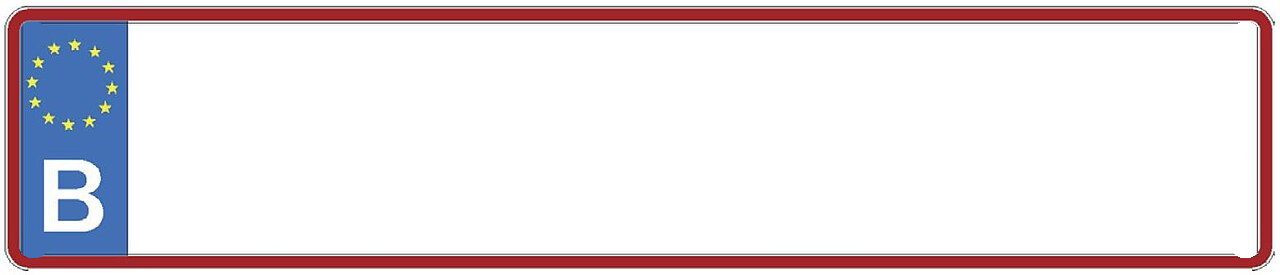
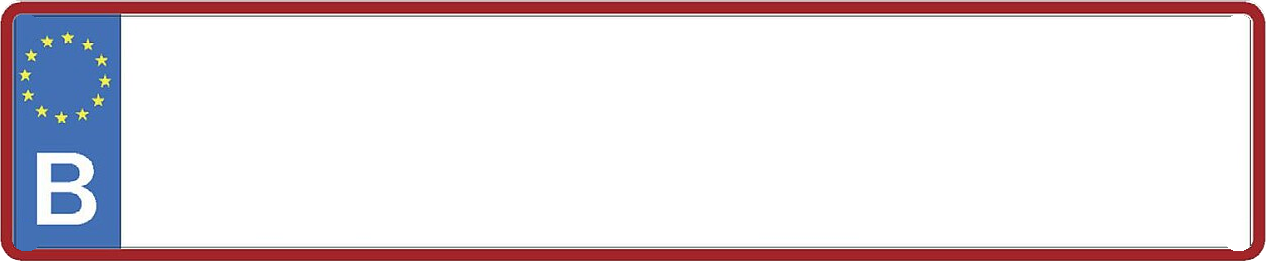
Belgium: transparent plate corners, spaced lettering, category stored with plate type (fixes vanity shown as Standard), green plates, plate previews in category picker, 1951 hidden, mopeds/motorcycles use two-line

Changed region(s): [[0.0, 0.0, 1.0, 1.0]]

diff --git a/app/lib/plateLayout.ts b/app/lib/plateLayout.ts
@@ -5,6 +5,7 @@
  * Pure data + math only (no React, no fs) — safe to import anywhere.
  */
 import { AL_CAP_HEIGHT, AL_WIDTHS } from "./albaniaFontMetrics";
+import { BELGIUM_CATEGORIES, parseBelgiumPlateType } from "./belgiumData";
 import { AT_CAP_HEIGHT, AT_WIDTHS } from "./austriaFontMetrics";
 import { AT47_CAP_HEIGHT, AT47_WIDTHS } from "./austria1947FontMetrics";
 
@@ -73,6 +74,10 @@ export type PlateArt = {
   seal?: string;
   /** Fixed-shape seal image (width ÷ height); its height is rowH × sealH. */
   sealAspect?: number;
+  /** Extra space after every character, in em (default 0). */
+  tracking?: number;
+  /** Share of the row height the capitals fill (default 0.72). */
+  fill?: number;
   /** Austria: draw the coat of arms of the plate's state (by district) instead of a fixed seal. */
   stateSeals?: boolean;
   /** Height of a state coat of arms as a fraction of its row. */
@@ -178,10 +183,10 @@ export const PLATE_ART: Record<string, PlateArt> = {
     split: "whole",
   },
   // ── Belgium: red plates. Euroband at the left; single row has the emblem / dash / DIV stamp as one seal between the first character and the rest ──
-  "belgium:single-dash": { src: "/plates/belgium/regular-single.png", w: 1280, h: 275, rows: [{ y0: 38, y1: 236, x0: 150, x1: 1240, slots: 2, seal: true, gap: 0.12 }], split: "be-seal", seal: "/plates/belgium/seal.png", sealAspect: 60 / 184, sealH: 0.93, textColor: "#a3252b" },
-  "belgium:single-no-dash": { src: "/plates/belgium/regular-single.png", w: 1280, h: 275, rows: [{ y0: 38, y1: 236, x0: 150, x1: 1240, slots: 1 }], split: "whole", textColor: "#a3252b" },
-  "belgium:two-line": { src: "/plates/belgium/regular-two.png", w: 1000, h: 600, rows: [{ y0: 36, y1: 300, x0: 190, x1: 830, slots: 1 }, { y0: 304, y1: 568, x0: 190, x1: 830, slots: 1, align: "right" }], split: "be-two", textColor: "#a3252b" },
-  "belgium:two-line-us": { src: "/plates/belgium/regular-two.png", w: 1000, h: 600, rows: [{ y0: 36, y1: 300, x0: 190, x1: 830, slots: 1 }, { y0: 304, y1: 568, x0: 190, x1: 830, slots: 1, align: "right" }], split: "be-two", textColor: "#a3252b" },
+  "belgium:single-dash": { src: "/plates/belgium/regular-single.png", w: 1266, h: 261, rows: [{ y0: 31, y1: 229, x0: 143, x1: 1233, slots: 2, seal: true, gap: 0.12 }], split: "be-seal", seal: "/plates/belgium/seal.png", sealAspect: 60 / 184, sealH: 0.93, textColor: "#a3252b", tracking: 0.1, fill: 0.66 },
+  "belgium:single-no-dash": { src: "/plates/belgium/regular-single.png", w: 1266, h: 261, rows: [{ y0: 31, y1: 229, x0: 143, x1: 1233, slots: 1 }], split: "whole", textColor: "#a3252b", tracking: 0.1, fill: 0.66 },
+  "belgium:two-line": { src: "/plates/belgium/regular-two.png", w: 1000, h: 600, rows: [{ y0: 36, y1: 300, x0: 190, x1: 830, slots: 1 }, { y0: 304, y1: 568, x0: 190, x1: 830, slots: 1, align: "right" }], split: "be-two", textColor: "#a3252b", tracking: 0.07, fill: 0.64 },
+  "belgium:two-line-us": { src: "/plates/belgium/regular-two.png", w: 1000, h: 600, rows: [{ y0: 36, y1: 300, x0: 190, x1: 830, slots: 1 }, { y0: 304, y1: 568, x0: 190, x1: 830, slots: 1, align: "right" }], split: "be-two", textColor: "#a3252b", tracking: 0.07, fill: 0.64 },
   // ── Belgium: military plates (digits only) — flag strip at x218–278, lettering to its right ──
   "belgium:military-single": { src: "/plates/belgium/military-single.png", w: 1040, h: 241, rows: [{ y0: 30, y1: 210, x0: 300, x1: 950, slots: 1 }], split: "whole" },
   // ── Austria: backgrounds in public/plates/austria; one row per line of lettering ──
@@ -262,6 +267,15 @@ export function plateArtFor(country: string, plateType?: string | null): PlateAr
     // electric vehicles and green-lettered mopeds: same plate, green characters
     const green = /^at-electric/.test(plateType ?? "") || /moped-green$/.test(plateType ?? "");
     return art && green && !art.textColor ? { ...art, textColor: "#0b7a3b" } : art;
+  }
+  if (key === "belgium") {
+    const { category, format } = parseBelgiumPlateType(plateType);
+    const art = PLATE_ART[`belgium:${format}`] ?? null;
+    // dealer, testing and professional plates have green lettering
+    const green = category && BELGIUM_CATEGORIES.find((c) => c.id === category)?.color === "green";
+    return art && green
+      ? { ...art, src: art.src.replace(".png", "-green.png"), seal: art.seal?.replace("seal.png", "seal-green.png"), textColor: "#1d7a3c" }
+      : art;
   }
   return (plateType && PLATE_ART[`${key}:${plateType}`]) || PLATE_ART[key] || null;
 }
@@ -387,6 +401,7 @@ export type TextRun = {
   align: "left" | "center" | "right";
   fontSize: number;
   centerY: number;     // vertical centre of the capitals
+  tracking?: number;   // extra space after each character, em
 };
 
 /** Left edge of a run of the given width inside its slot. */
@@ -448,10 +463,10 @@ export function plateLayout(country: string, rawText: string, height: number, pl
       const sealD = !mode ? 0 : stateSrc ? sealH * sealAspect(stateSrc) : art.sealAspect ? sealH * art.sealAspect : rowH * SEAL_DIAMETER;
       const gap = mode ? rowH * (row.gap ?? SEAL_GAP) : 0;
       const gaps = mode === "between" ? 2 : mode === "left" || mode === "right" ? 1 : 0;   // gaps touching the seal
-      const ems = texts.map((t) => textWidthEm(t, font));
+      const ems = texts.map((t) => textWidthEm(t, font) + (art.tracking ?? 0) * [...t].length);
       return { row, texts, rowH, mode, sealD, sealH, gap, gaps, ems, avail: (row.x1 - row.x0) * s };
     });
-    const fit = (l: (typeof lines)[number]) => Math.min((l.rowH * 0.72) / capH, (l.avail - l.sealD - l.gaps * l.gap) / Math.max(l.ems.reduce((x, y) => x + y, 0), 0.5));
+    const fit = (l: (typeof lines)[number]) => Math.min((l.rowH * (art.fill ?? 0.72)) / capH, (l.avail - l.sealD - l.gaps * l.gap) / Math.max(l.ems.reduce((x, y) => x + y, 0), 0.5));
 
     // One letter height for the whole plate: capped by every row's height and by
     // every row's width (text + seal must fit between the bands).
@@ -472,7 +487,7 @@ export function plateLayout(country: string, rawText: string, height: number, pl
       }
       l.texts.forEach((text, i) => {
         // Belgian lettering has no slashed zero: use the plain O
-        runs.push({ text: key === "belgium" ? text.replace(/0/g, "O") : text, x0: x, x1: x + widths[i], align: "left", fontSize: fs, centerY });
+        runs.push({ text: key === "belgium" ? text.replace(/0/g, "O") : text, x0: x, x1: x + widths[i], align: "left", fontSize: fs, centerY, tracking: art.tracking });
         x += widths[i];
         if (l.mode === "right" && i === l.texts.length - 1) {                 // text then ●
           seals.push({ cx: x + l.gap + l.sealD / 2, cy: centerY, d: l.sealD, h: l.sealH || undefined, src: stateSrc ?? undefined });

diff --git a/app/lib/belgiumData.ts b/app/lib/belgiumData.ts
@@ -40,7 +40,7 @@ export const BELGIUM_CATEGORIES: {
   { id: "testing",       label: "Testing",                     color: "green", example: "Y-AAA",      hint: "Starts with Y-AAA or Y-QAA" },
   { id: "professional",  label: "Professional plates",         color: "green", example: "V-AA-123",   hint: "Starts with V-AA" },
   { id: "vanity",        label: "Vanity",                      color: "red",   example: "HELLO",      hint: "Custom text (since 2014)" },
-  { id: "year-1951",     label: "1951 Year system",            color: "red",   example: "AAA-111",    hint: "Select era pattern below" },
+  // (1951 year system hidden for now — re-add its entry here to bring it back)
   { id: "diplomatic",    label: "Diplomatic",                  color: "red",   example: "01 CD 123",  hint: "Freetype diplomatic format" },
   { id: "military",      label: "Military",                    color: "red",   example: "26287",      hint: "Belgian Defence — digits only, flag strip" },
 ];
@@ -121,9 +121,9 @@ const STANDARD_FORMATS = ["single-dash", "single-no-dash", "two-line", "two-line
 const FORMATS_1951     = ["single-no-euroband", "two-line-no-euroband", "single-euroband", "two-line-euroband"];
 
 export const BELGIUM_FORMATS_FOR: Record<BelgiumCategoryId, string[]> = {
-  regular: STANDARD_FORMATS, oldtimer: STANDARD_FORMATS, motorcycle: STANDARD_FORMATS,
+  regular: STANDARD_FORMATS, oldtimer: STANDARD_FORMATS, motorcycle: ["two-line"],
   taxi: STANDARD_FORMATS, trailer: STANDARD_FORMATS, dealer: STANDARD_FORMATS,
-  international: STANDARD_FORMATS, agricultural: STANDARD_FORMATS, moped: STANDARD_FORMATS,
+  international: STANDARD_FORMATS, agricultural: STANDARD_FORMATS, moped: ["two-line"],
   rental: STANDARD_FORMATS, testing: STANDARD_FORMATS, professional: STANDARD_FORMATS,
   vanity: STANDARD_FORMATS, "year-1951": FORMATS_1951, diplomatic: STANDARD_FORMATS,
   military: ["military-single"],
@@ -145,3 +145,17 @@ export const BE_COLOR_CLASSES: Record<BelgiumPlateColor, string> = {
   red:   "border-red-700/60 text-red-300 bg-red-950/30",
   green: "border-green-700/60 text-green-300 bg-green-950/30",
 };
+
+/**
+ * Stored Belgian plate types are "<category>__<format>" (e.g. "vanity__single-dash").
+ * Older spots store only the format ("single-dash"), or "<format>__<era>" for 1951 plates.
+ */
+export function parseBelgiumPlateType(t?: string | null): { category: BelgiumCategoryId | null; format: string } {
+  const raw = t ?? "";
+  const i = raw.indexOf("__");
+  if (i > 0) {
+    const cat = BELGIUM_CATEGORIES.find((c) => c.id === raw.slice(0, i) && c.id !== "year-1951");
+    if (cat) return { category: cat.id, format: raw.slice(i + 2) };
+  }
+  return { category: null, format: raw };
+}

diff --git a/app/upload/belgium/page.tsx b/app/upload/belgium/page.tsx
@@ -127,7 +127,7 @@ export default function BelgiumUploadPage() {
       if (!uploaded || !uploaded[0]?.ufsUrl) throw new Error("Image upload failed — please try again.");
       const imageUrl = uploaded[0].ufsUrl;
       setStatus("saving");
-      const composedType = category === "year-1951" ? `${format}__${era}` : format;
+      const composedType = category === "year-1951" ? `${format}__${era}` : `${category}__${format}`;
       const res = await fetch("/api/uploads", {
         method: "POST",
         headers: { "Content-Type": "application/json" },
@@ -173,7 +173,7 @@ export default function BelgiumUploadPage() {
     await doUpload();
   }
 
-  const composedType = category === "year-1951" ? `${format}__${era}` : format;
+  const composedType = category === "year-1951" ? `${format}__${era}` : `${category}__${format}`;
 
   return (
     <>
@@ -233,12 +233,15 @@ export default function BelgiumUploadPage() {
               <div className="grid grid-cols-2 sm:grid-cols-3 gap-2">
                 {BELGIUM_CATEGORIES.map((c) => (
                   <button key={c.id} type="button" onClick={() => handleCategoryChange(c.id as BelgiumCategoryId)}
-                    className={`rounded-xl border px-3 py-2.5 text-left text-sm transition-all ${
+                    className={`flex flex-col items-center gap-2 rounded-xl border px-3 py-3 text-center text-sm transition-all ${
                       category === c.id
                         ? "border-indigo-600 bg-indigo-950/50 text-indigo-200"
                         : "border-zinc-800 bg-zinc-950 text-zinc-400 hover:border-zinc-600 hover:text-zinc-200"
                     }`}>
-                    {c.label}{c.color === "green" ? " 🟢" : ""}
+                    <span className="block h-[44px] w-full overflow-hidden text-center leading-[44px]">
+                      <PlateBadge country="belgium" text={c.example} plateType={`${c.id}__${BELGIUM_FORMATS_FOR[c.id as BelgiumCategoryId][0]}`} size="md" />
+                    </span>
+                    <span>{c.label}</span>
                   </button>
                 ))}
               </div>

diff --git a/app/api/plate/route.ts b/app/api/plate/route.ts
@@ -43,6 +43,7 @@ const esc = (s: string) => s.replace(/[&<>"']/g, (c) => `&#${c.charCodeAt(0)};`)
 /** SVG for one run of text: glyph outlines, umlauts synthesised (font has none). */
 function runSvg(font: opentype.Font, run: TextRun, color = "#111") {
   const { text, fontSize, centerY } = run;
+  const track = (run.tracking ?? 0) * fontSize / CONDENSE;   // drawn inside the condensing transform
   const scale = fontSize / font.unitsPerEm;
   const out = new opentype.Path();
   const dots: string[] = [];
@@ -69,7 +70,7 @@ function runSvg(font: opentype.Font, run: TextRun, color = "#111") {
                 `<circle cx="${(cx + 0.17 * fontSize).toFixed(2)}" cy="${cy.toFixed(2)}" r="${r.toFixed(2)}"/>`);
     }
     out.extend(gp);
-    x += (glyph.advanceWidth ?? 0) * scale;
+    x += (glyph.advanceWidth ?? 0) * scale + track;
   }
 
   const width = x * CONDENSE;
@@ -114,7 +115,7 @@ export async function GET(req: Request) {
   }
 
   const plateType = (searchParams.get("p") ?? "").slice(0, 60) || null;
-  if (plateType && !/^[a-z0-9-]+$/i.test(plateType)) {
+  if (plateType && !/^[a-z0-9_-]+$/i.test(plateType)) {
     return new Response("Bad plate type", { status: 400 });
   }
 

diff --git a/app/lib/plateTypes.ts b/app/lib/plateTypes.ts
@@ -1,3 +1,4 @@
+import { BELGIUM_CATEGORIES, parseBelgiumPlateType } from "./belgiumData";
 /**
  * Short, human-friendly plate type names for badges, filter chips and links.
  *
@@ -66,6 +67,13 @@ const COUNTRY_PREFIX = /^(de|at|al|be|ba|bg|hr|cz)-/i;
 
 export function plateTypeLabel(country: string, type: string | null | undefined): string | null {
   if (!type) return null;
+  if (country.toLowerCase() === "belgium") {
+    const { category, format } = parseBelgiumPlateType(type);
+    if (category) {
+      const base = category === "regular" ? "Standard" : (BELGIUM_CATEGORIES.find((c) => c.id === category)?.label ?? category);
+      return /two-line/.test(format) ? `${base} · Two-line` : base;
+    }
+  }
   const exact = EXACT[country.toLowerCase()]?.[type];
   if (exact) return exact;
 

diff --git a/app/components/PlateBadge.tsx b/app/components/PlateBadge.tsx
@@ -12,7 +12,7 @@ export { formatPlateText } from "@/app/lib/plateLayout";
 export type { PlateSize };
 
 /** Bump when the plate rendering changes, so CDN-cached images refresh. */
-const PLATE_IMAGE_VERSION = 20;
+const PLATE_IMAGE_VERSION = 22;
 /** Render at 3× for crisp output on high-density screens. */
 const DENSITY = 3;
 
